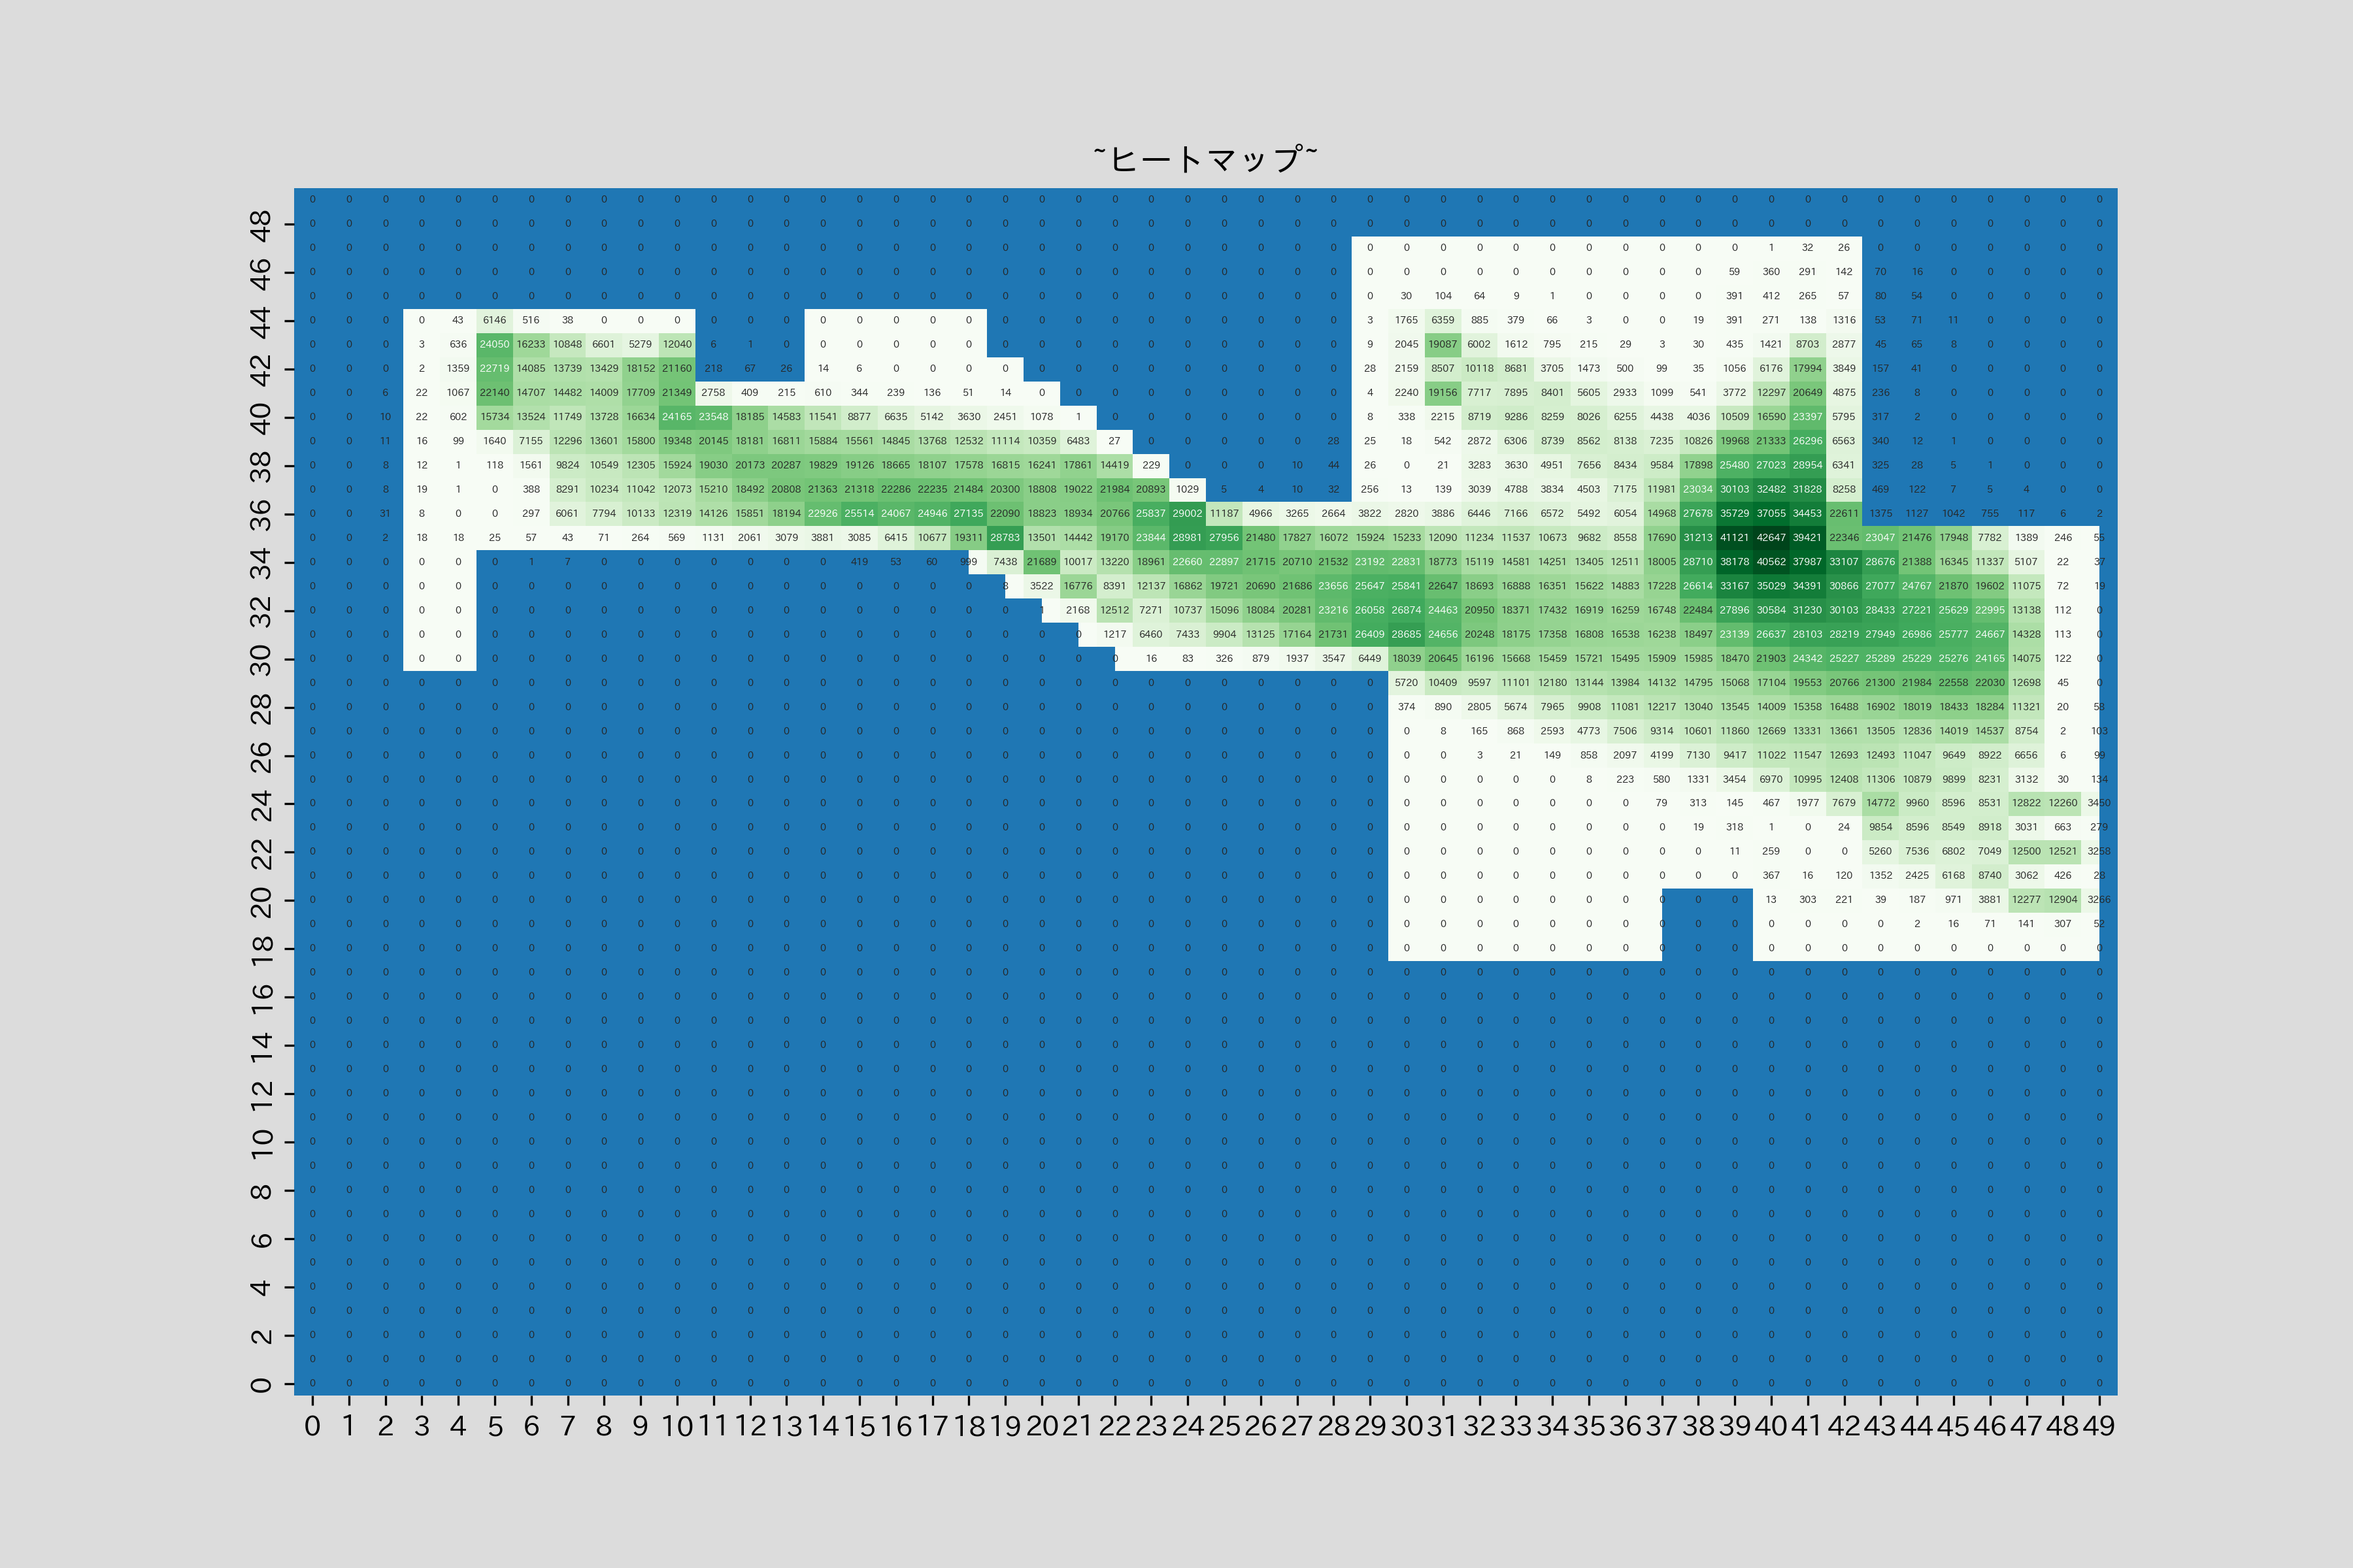
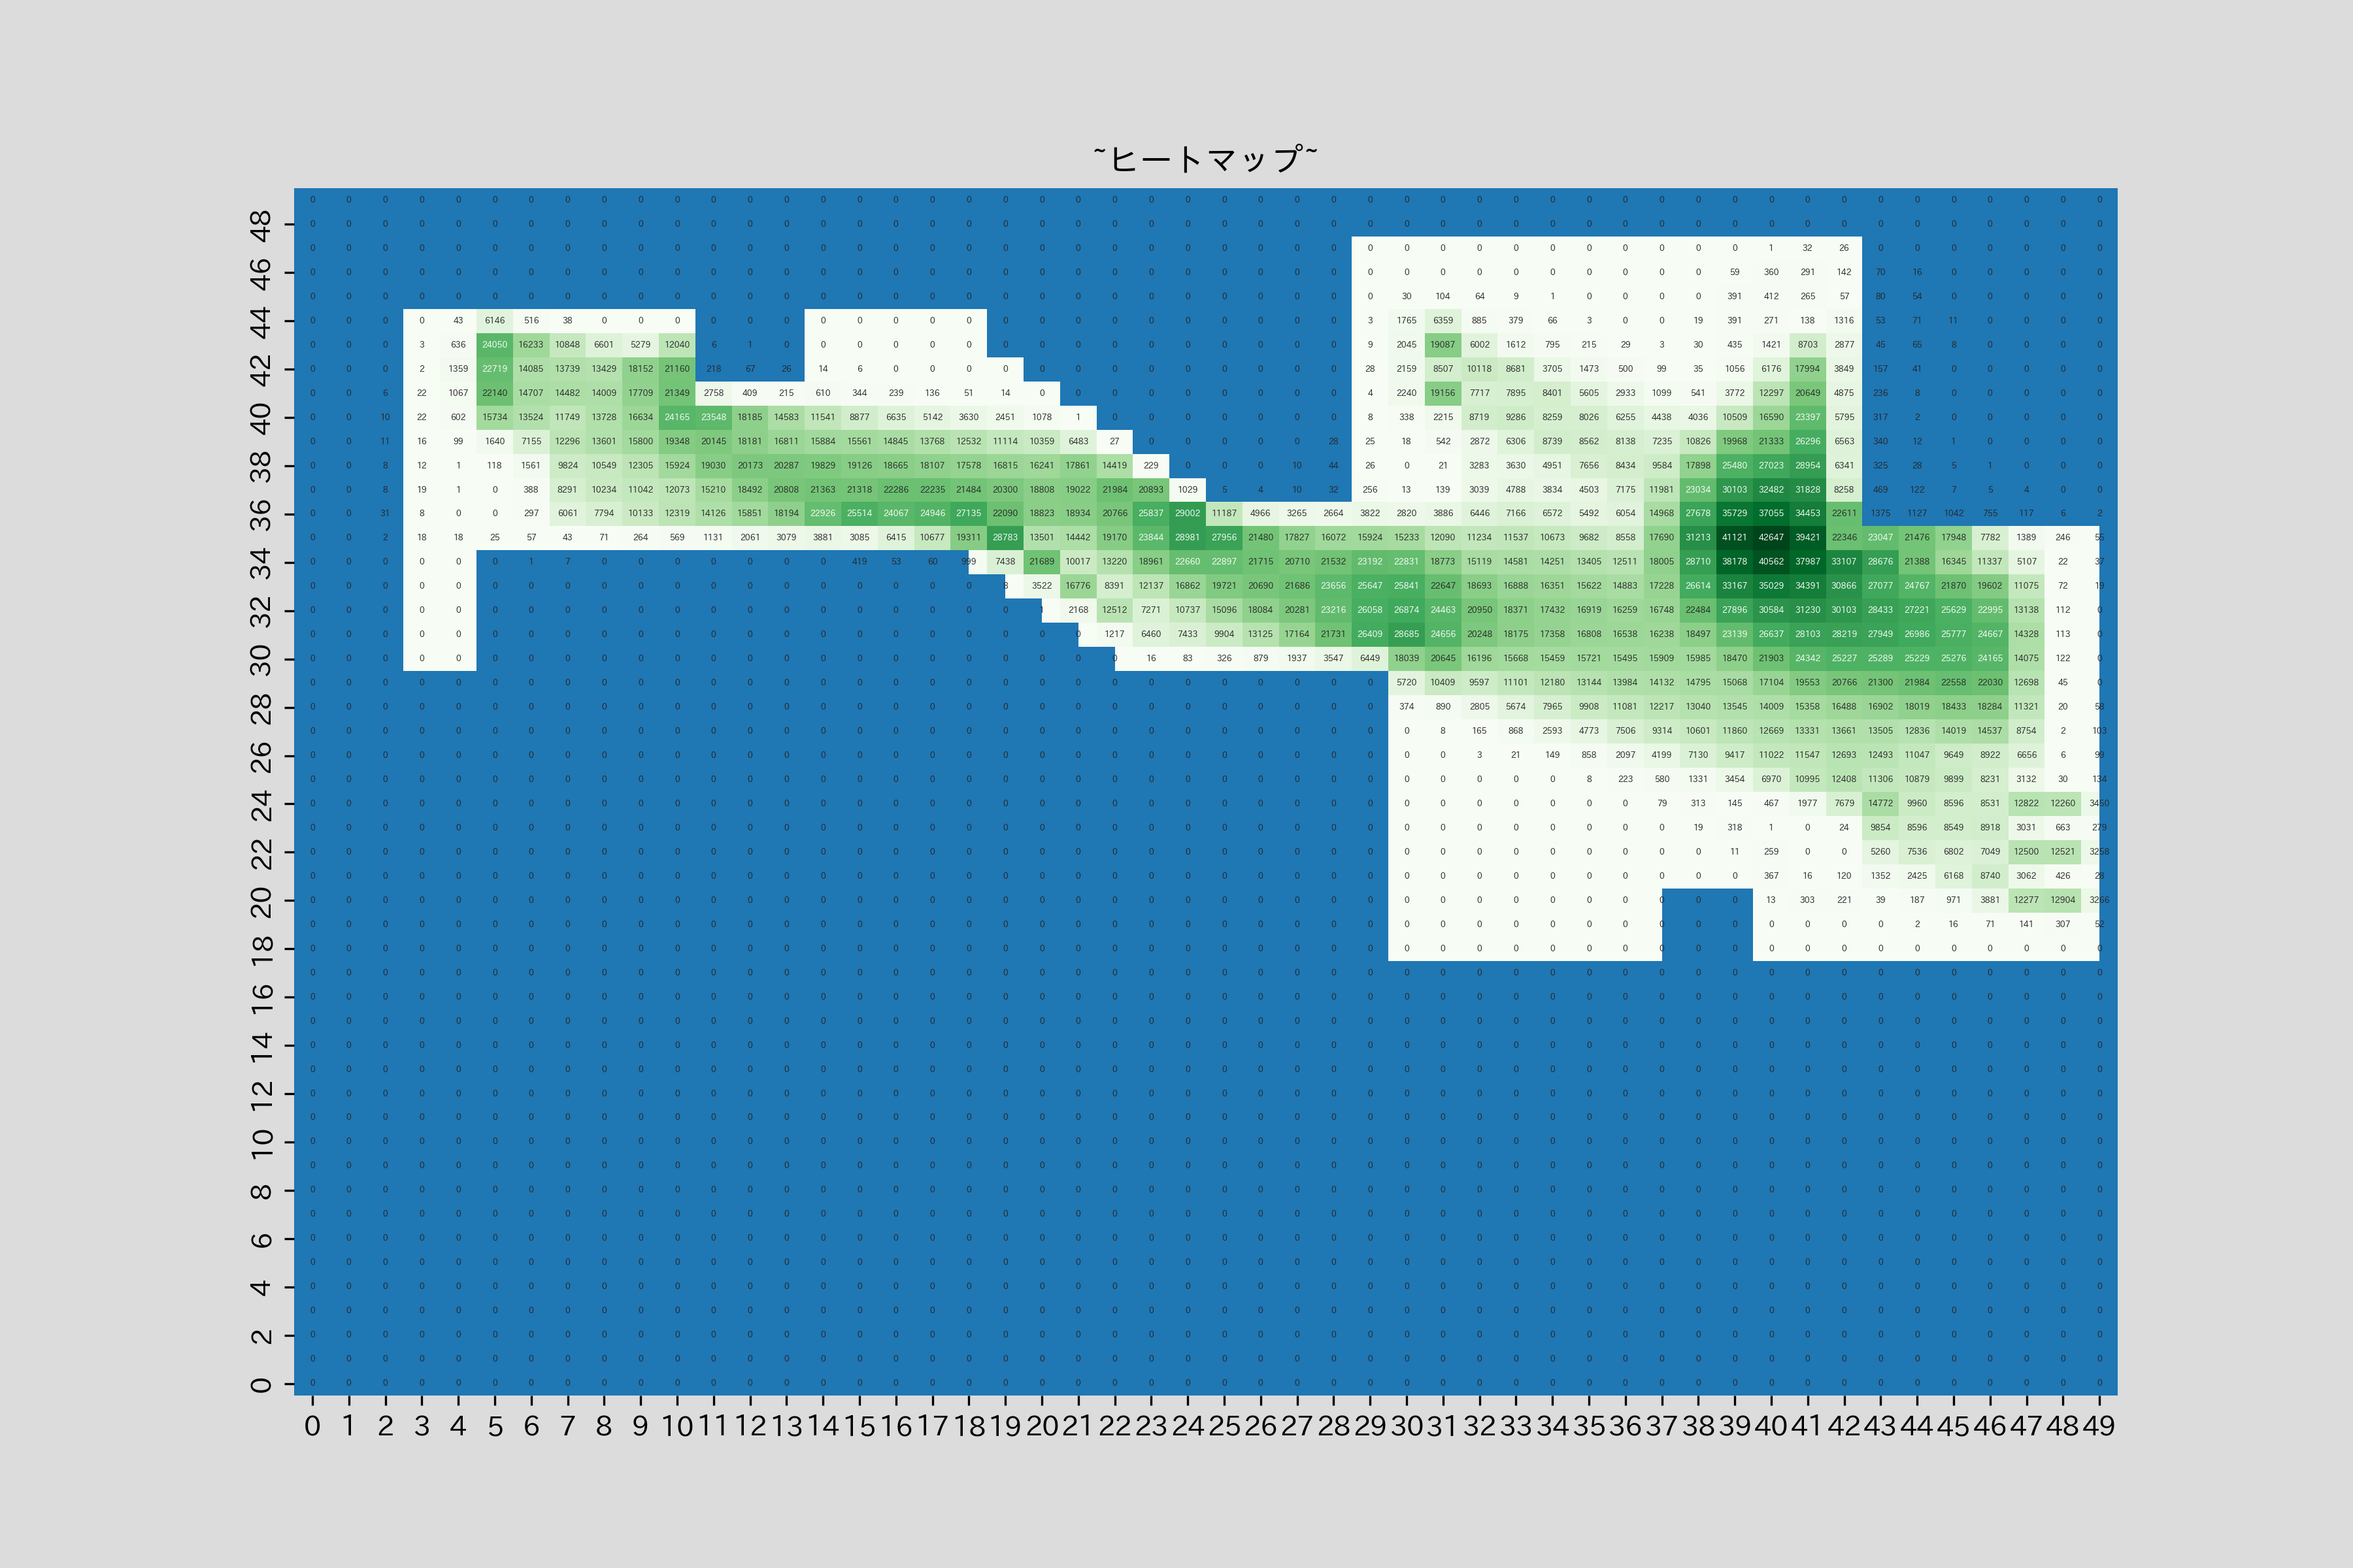
aw16-3

Changed region(s): [[0.1867, 0.2188, 0.8711, 0.5625]]

diff --git a/gap_morning.py b/gap_morning.py
@@ -20,7 +20,7 @@ def HeatmappingNumber(now_agents_positions, walls, fig_name):
     ax2.set_ylim(0, 500)
 
     ax2.set_title("~ヒートマップ~")
-    ax2 = sns.heatmap(now_agents_positions, cmap='Greens',cbar=False, annot=True, fmt='d', annot_kws={'fontsize':3.5})
+    ax2 = sns.heatmap(now_agents_positions, cmap='Greens',cbar=False, annot=True, fmt='d', annot_kws={'fontsize':3})
     for wall in walls:
             ax2.add_patch(Rectangle((wall[0]/10, wall[1]/10), (wall[2]-wall[0])/10, (wall[3]-wall[1])/10))
     ax2.invert_yaxis()
